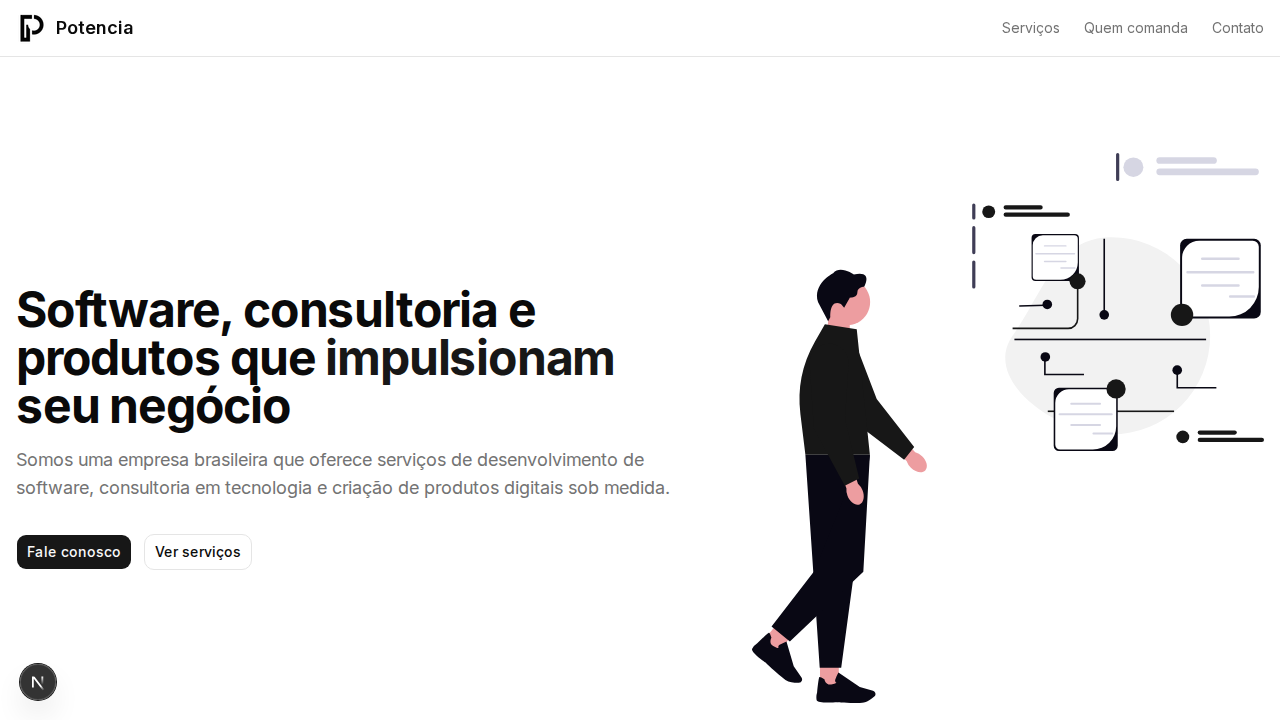
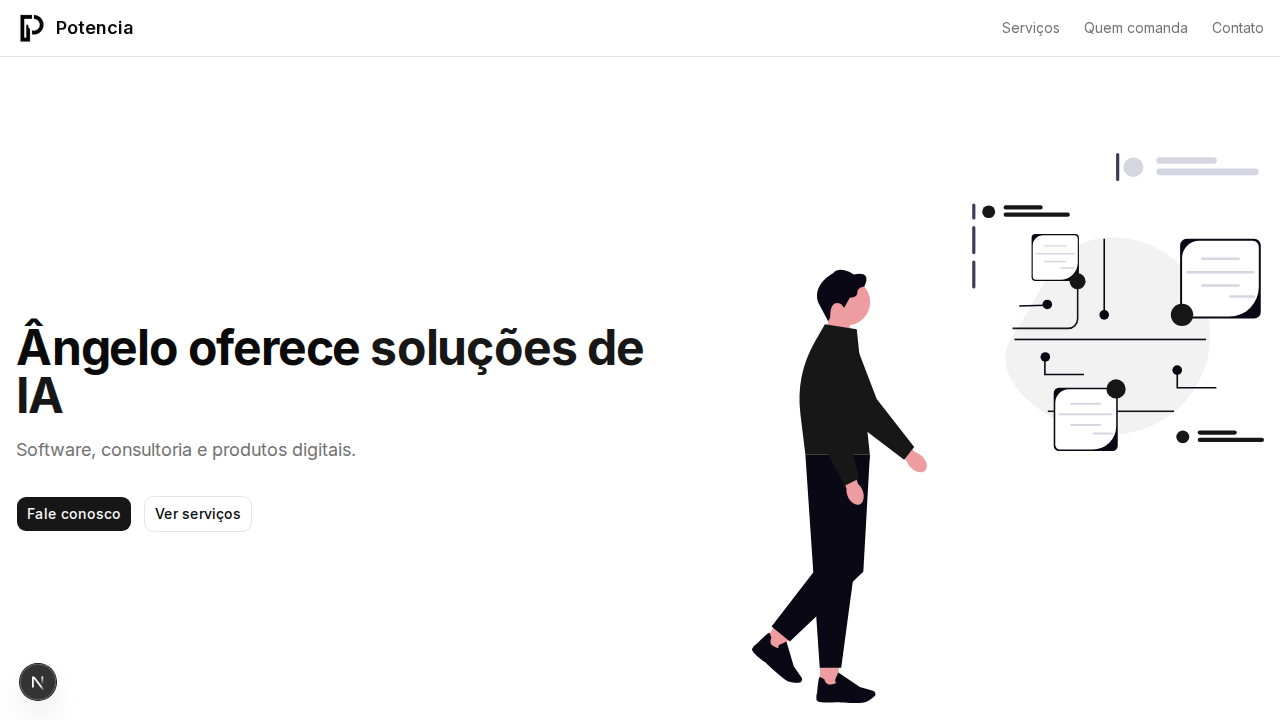
Update homepage hero to highlight AI solutions
Refresh English and pt-BR hero copy in the home i18n catalog, extend
Playwright locale checks for the new headline and subline, and add PR
evidence screenshot of the US English hero.

Changed region(s): [[0.0, 0.3972, 0.5312, 0.7944]]

diff --git a/e2e/ai-content-locale-pricing.spec.ts b/e2e/ai-content-locale-pricing.spec.ts
@@ -13,9 +13,10 @@ test.describe("Site locale by country", () => {
     await expect(
       page.getByRole("heading", {
         level: 1,
-        name: /Software, consulting, and products that power your business/i,
+        name: /Ângelo offers AI solutions/i,
       })
     ).toBeVisible();
+    await expect(page.getByText("Software, consulting, and digital products.")).toBeVisible();
     await expect(page.getByRole("heading", { name: "What we do" })).toBeVisible();
     await expect(page.getByTestId("services-ai-content-link")).toHaveText(
       "AI product photos"
@@ -34,9 +35,10 @@ test.describe("Site locale by country", () => {
     await expect(
       page.getByRole("heading", {
         level: 1,
-        name: /Software, consultoria e produtos que impulsionam seu negócio/i,
+        name: /Ângelo oferece soluções de IA/i,
       })
     ).toBeVisible();
+    await expect(page.getByText("Software, consultoria e produtos digitais.")).toBeVisible();
     await expect(page.getByRole("heading", { name: "O que fazemos" })).toBeVisible();
     await expect(page.getByTestId("services-ai-content-link")).toHaveText(
       "Fotos de produto com IA"
@@ -150,6 +152,15 @@ test.describe("PR evidence screenshots", () => {
     await page.getByRole("heading", { level: 1 }).scrollIntoViewIfNeeded();
     await page.screenshot({
       path: "docs/pr-evidence/i18n-regional-pricing/home-br-pt.png",
+      fullPage: false,
+    });
+  });
+
+  test("capture homepage hero AI solutions copy", async ({ page }) => {
+    await page.goto("/?potencia-country=US");
+    await page.getByRole("heading", { level: 1 }).scrollIntoViewIfNeeded();
+    await page.screenshot({
+      path: "docs/pr-evidence/hero-ai-solutions/home-us-en.png",
       fullPage: false,
     });
   });

diff --git a/lib/i18n/home-catalog.ts b/lib/i18n/home-catalog.ts
@@ -60,10 +60,10 @@ const ptBR: HomeMessages = {
     menuAria: "Menu",
   },
   hero: {
-    titleLead: "Software, consultoria e produtos que",
-    titleHighlight: "impulsionam",
-    titleTail: "seu negócio",
-    body: "Somos uma empresa brasileira que oferece serviços de desenvolvimento de software, consultoria em tecnologia e criação de produtos digitais sob medida.",
+    titleLead: "Ângelo oferece",
+    titleHighlight: "soluções de IA",
+    titleTail: "",
+    body: "Software, consultoria e produtos digitais.",
     ctaContact: "Fale conosco",
     ctaServices: "Ver serviços",
   },
@@ -126,10 +126,10 @@ const en: HomeMessages = {
     menuAria: "Menu",
   },
   hero: {
-    titleLead: "Software, consulting, and products that",
-    titleHighlight: "power",
-    titleTail: "your business",
-    body: "We are a Brazilian company offering software development, technology consulting, and bespoke digital product creation.",
+    titleLead: "Ângelo offers",
+    titleHighlight: "AI solutions",
+    titleTail: "",
+    body: "Software, consulting, and digital products.",
     ctaContact: "Talk to us",
     ctaServices: "See services",
   },
